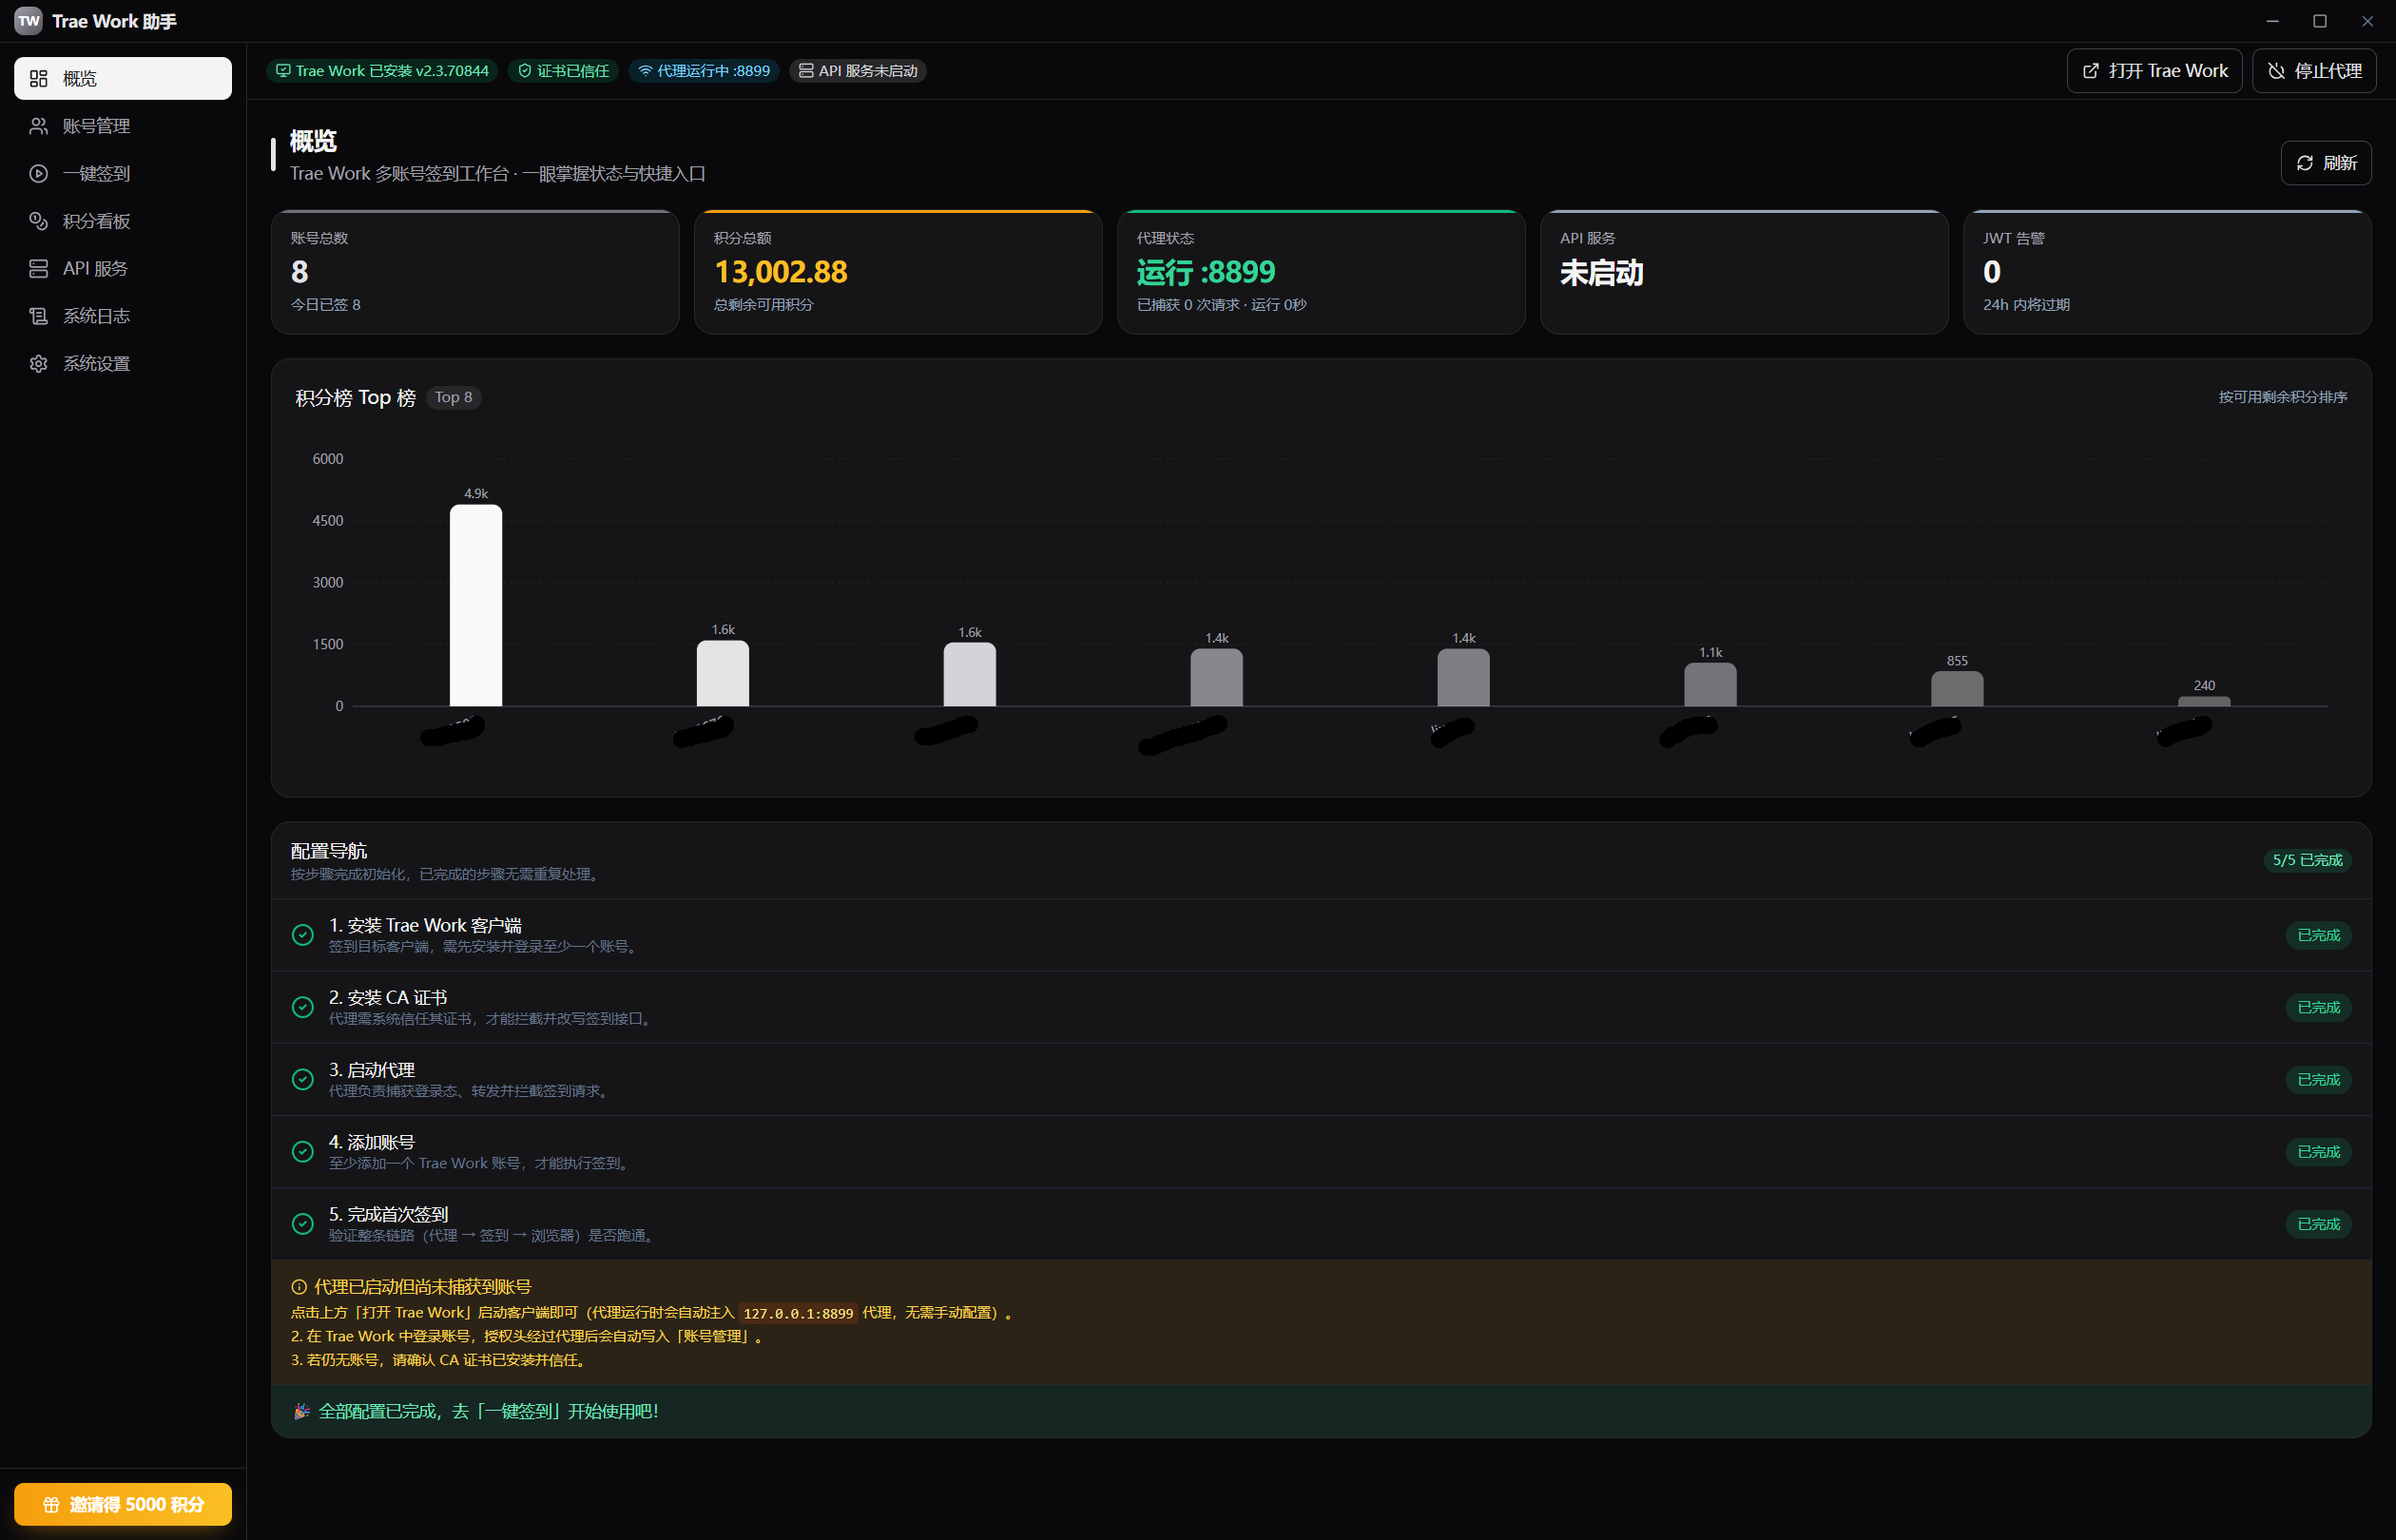
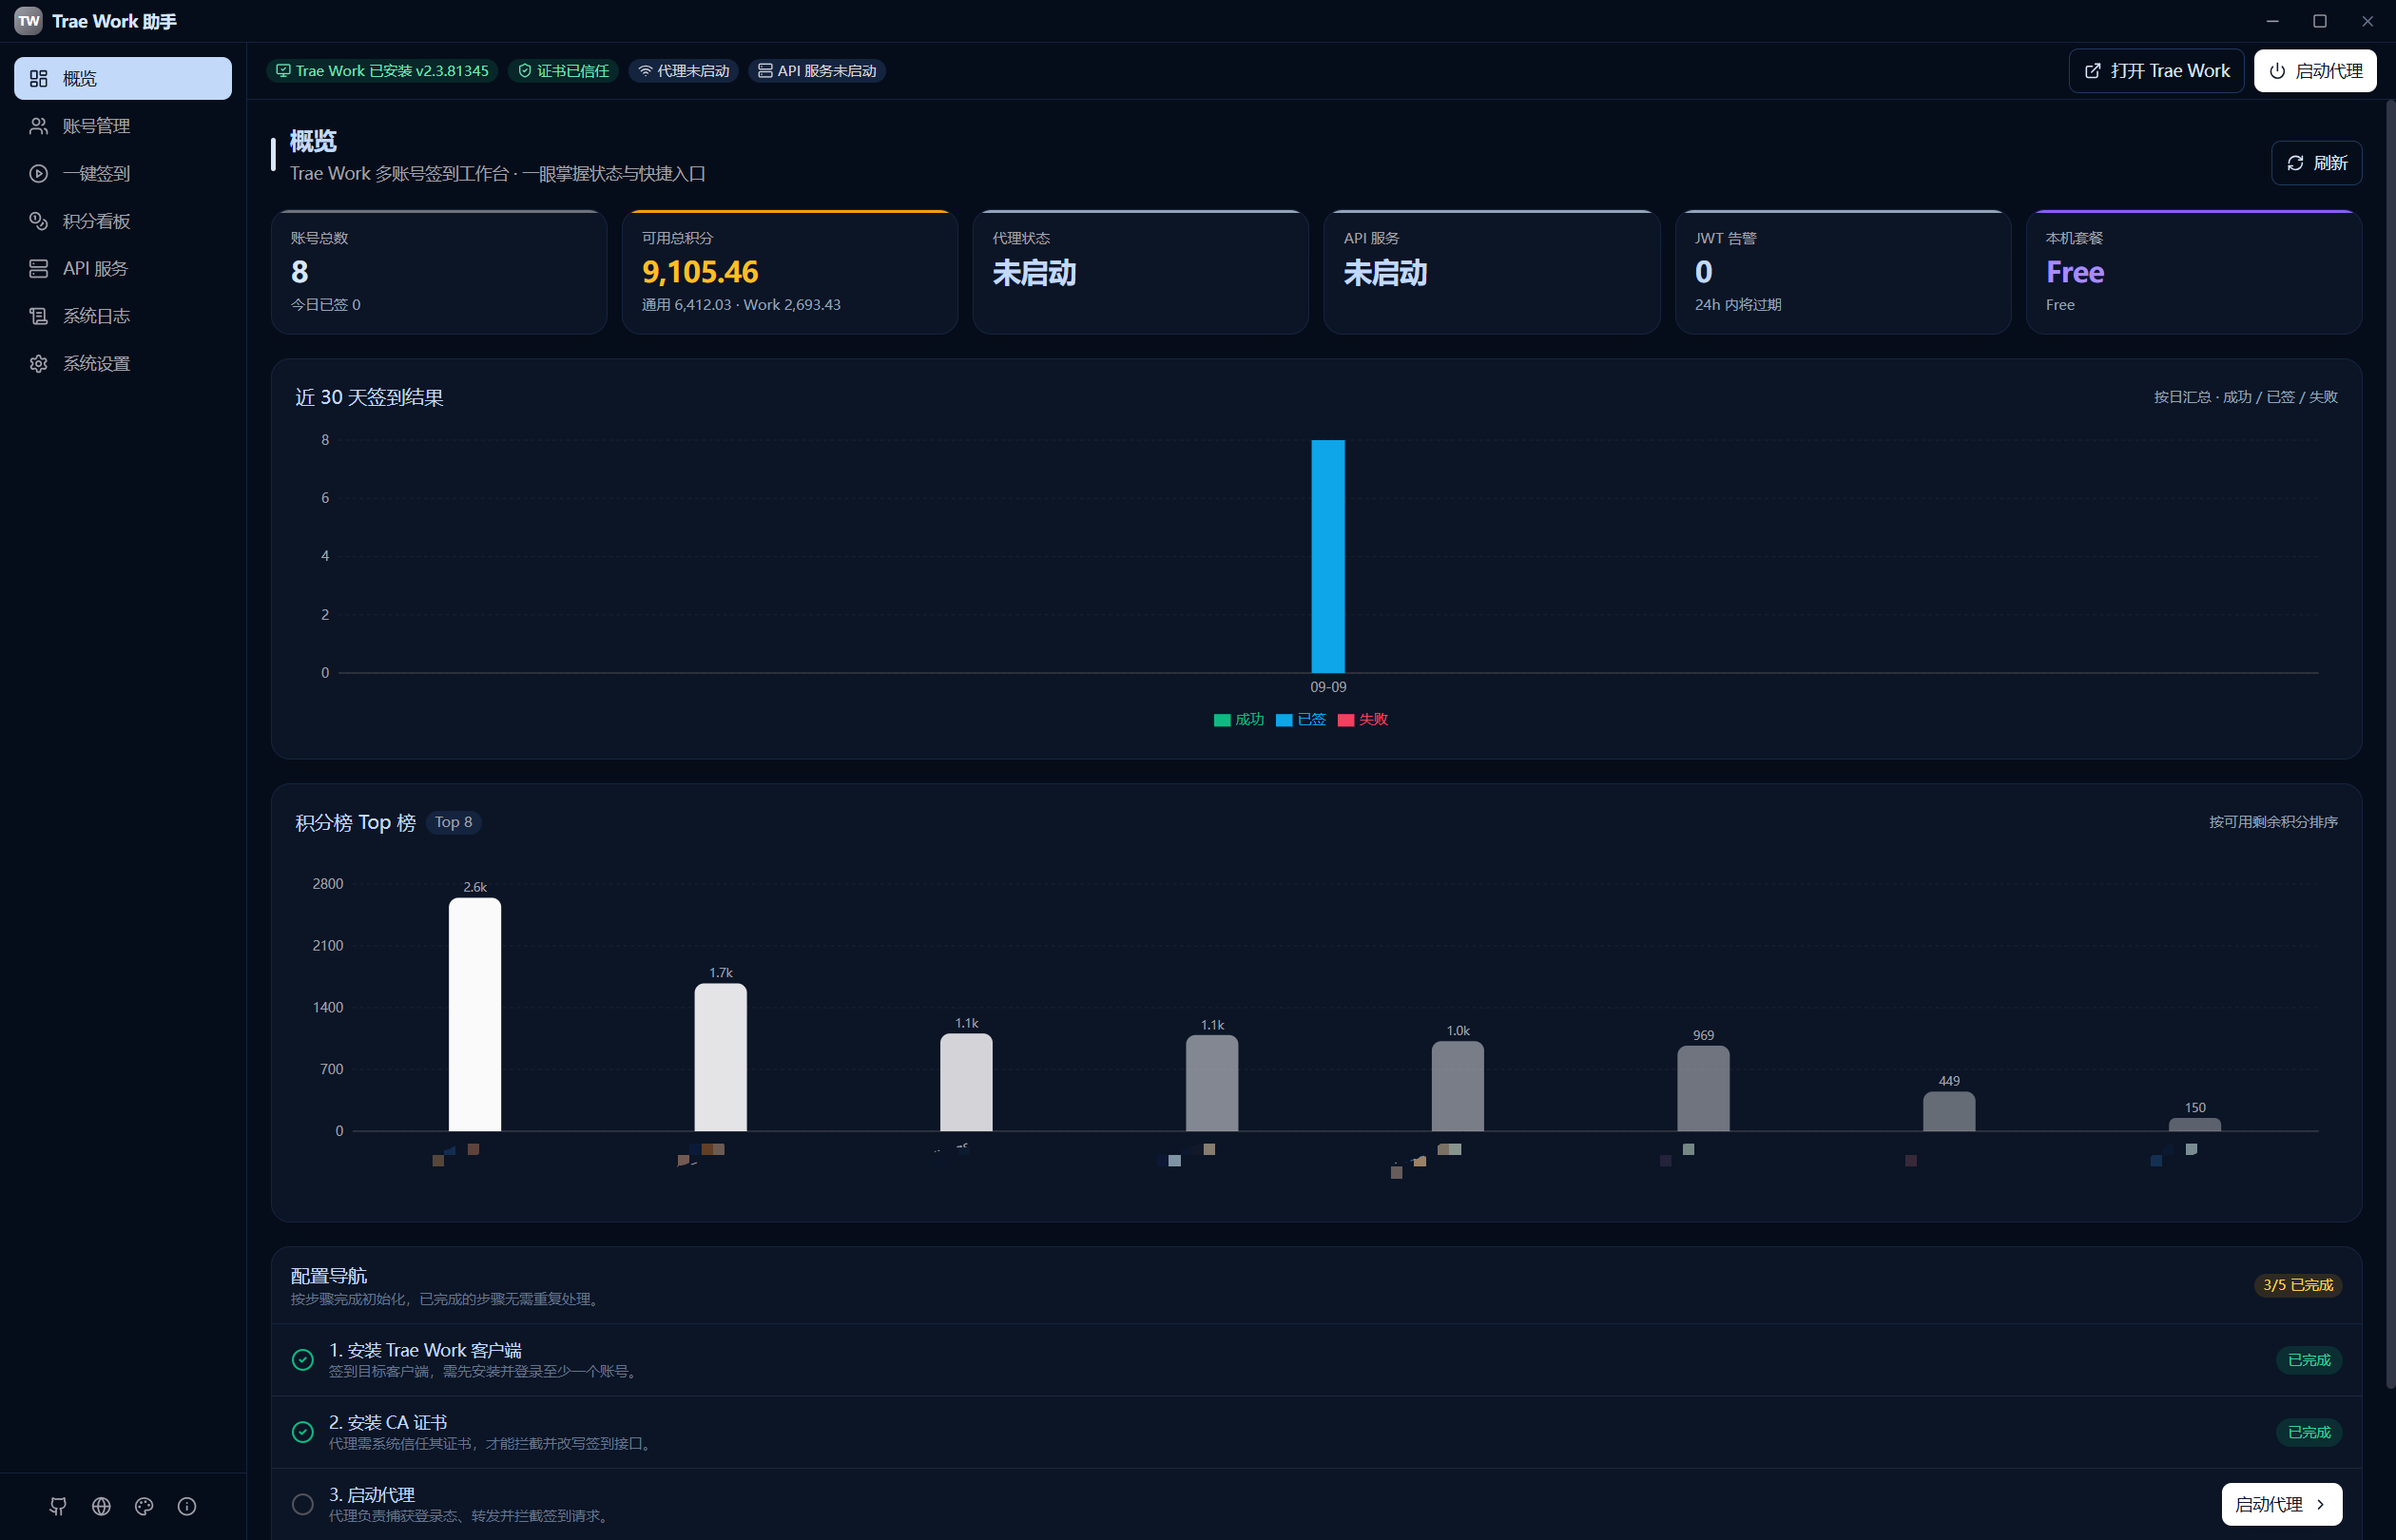
[docs] 恢复 Work 积分资源池方案设计文档（多活会话编排方案 A），并压缩 main.png 宣传图

diff --git a/docs/work-credit-pool-design.md b/docs/work-credit-pool-design.md
@@ -1,0 +1,143 @@
+# Work 积分资源池：方案设计与落地建议
+
+> 目标：把多个 Trae 账号的 **Work 积分（product_id 209）** 聚成一个对外部调用方**无感**的资源池，
+> 通过调度机制对外提供 **OpenAI 兼容接口**（`POST /v1/chat/completions`）。
+>
+> 原则（本方案严格遵守）：**最小代码、不改现有业务与架构**。现有能力只复用、不修改。
+
+---
+
+## 0. 结论先行（TL;DR）
+
+1. 项目里**已经有一套完整的「透明积分池 + OpenAI 接口」壳**，但它当前只吃 **IDE 积分（208）**——
+   上游是 `EP_LLM_CHAT = /api/agent/v3/llm_utils_chat`，余额来源 `ide_user_ent_usage` 也是 IDE 积分。
+   **Work 积分（209）尚未接入**。
+2. 抓包实证：Work 积分只能由**实时 Trae SOLO 会话**本身发起 `create_agent_task` 来消耗；
+   该请求体由原生层 `ai_agent.dll` 构造、由闭源 `@aha-kit` 加密，**外部无法复刻**（用真实身份复刻仍 4001，已证伪）。
+3. **唯一可行且对外部无感的突破路径 = 多活会话编排**：每个 Work 账号跑一个实时 Trae SOLO 实例，
+   Work Assistant 作为编排层按池选账号 → 驱动对应实例 → 捕获 SSE（现有 MITM 代理）→ `sse.rs` 转 OpenAI。
+4. 这条路径是**增量的**：在现有池/端点/转换之上 **+1 个 `work_transport` 模块 + 一个配置开关**，
+   现有 `routes.rs / pool.rs / sse.rs / server.rs / payload.rs` **全部不动**。
+5. 真正的成本在**运维**（N 个实时会话 + 如何"驱动"它们发起对话），不在代码量。
+
+---
+
+## 1. 现状盘点：已建好的壳（直接复用，不要动）
+
+| 能力 | 位置 | 说明 |
+|---|---|---|
+| 对外 OpenAI 兼容端点 | `src-tauri/src/api_server/server.rs:74` | `POST /v1/chat/completions` |
+| 账号池 + 调度器 | `src-tauri/src/api_server/pool.rs` | `ApiPool`：`pick_excluding` 按剩余积分挑选、跳过零积分、错误冷却 `note_error`、`MAX_ROTATE` 轮换 |
+| body 改写 | `src-tauri/src/api_server/payload.rs` | `prepare_llm_chat_body` |
+| SSE→OpenAI 转换 | `src-tauri/src/api_server/sse.rs` | 已有 `stream_convert` / `aggregate` |
+| 余额刷新 | `src-tauri/src/commands/accounts.rs` | `refresh_remaining_credits`，调用 `api.trae.cn/trae/api/v2/pay/ide_user_ent_usage` |
+| 上游常量 | `src-tauri/src/api_server/mod.rs` | `AGENT_HOST`、`EP_LLM_CHAT`、`FUNCTION="solo_work_lite"` |
+
+**缺口（本章重点）**：上述壳的上游是 `EP_LLM_CHAT`（IDE 积分 208），余额也是 IDE 积分。
+Work 积分（209）从「上游端点、请求体构造、余额来源」三个层面都**没有接入**。
+
+---
+
+## 2. 关键约束：为什么 Work 积分外部无法复刻
+
+来自本会话抓包与复刻实验的实证：
+
+- **实证成功**：真实 Trae SOLO 客户端发起 `create_agent_task`，返回 `200 OK` + `text/event-stream`
+  + `event:task_created` + `event:model_config`，确认**成功消耗 Work 积分**。
+- **请求体特征**：
+  - 由原生层 `ai_agent.dll` 构造，是 ~123KB 的**富上下文** body（含 workspace / agent 上下文）；
+  - 由闭源 `@aha-kit` NAPI 加密（仅暴露 `init` / `rawFetch`，无独立 `encrypt` 函数）；
+  - body 加密后无法直读，因此外部无法"照抄"结构。
+- **复刻实验（已证伪外部复刻）**：用**真实身份**（真实 JWT `data.id` + 真实 `device_id` + 真实 `machine_id` + 真实 `project_id`）
+  在 Node 端复刻 `create_agent_task` 请求 → 仍返回 `4001 failed to get summary template data`。
+- **结论**：`create_agent_task` 必须由**实时 Trae SOLO 会话**自身发起，外部无法合成该调用。
+  任何"独立构造明文/密文 body 直接打 API"的思路都走不通（也伴随闭源组件逆向的合规风险）。
+
+> 顺带说明：`@aha-kit` 的 `fetch` 在 `x-bridge-transport:aha` 下确实会加密 body，但它走的是 **TTNet 隧道**
+> （MITM 只能看到 `CONNECT` 中继，看不到内部请求）；而真实客户端是**直连 HTTPS POST + aha 加密体**。
+> 两条路径不同，进一步说明不能绕开真实客户端。
+
+---
+
+## 3. 可行方案对比
+
+| 方案 | 做法 | 代码改动 | 复用现有壳 | 优点 | 风险 / 缺点 | 契合度 |
+|---|---|---|---|---|---|---|
+| **A. 多活会话编排 + WorkTransport（推荐）** | 每账号一个实时 Trae SOLO 实例；新增模块按池选账号→驱动该实例发起 `create_agent_task`→捕获 SSE→`sse.rs` 转 OpenAI | 小（1 个新模块 + 配置开关 + 余额来源） | 是（端点/池/转换全复用） | 唯一能真消耗 Work 积分且对外部无感；增量、不动架构 | 运维重（N 实例 + 驱动方式待确认） | ★★★★★ |
+| **B. 复用 IDE 池当过渡** | 把现有 IDE 积分池直接当"资源池"对外，零改动先跑通端到端形态 | 零 | 是 | 立刻可用，验证"透明池 + OpenAI 接口 + 外部无感"形态 | 消耗的是 IDE 积分不是 Work 积分，**不满足业务诉求** | ★★☆（仅过渡） |
+| **C. 逆向原生层复刻 `create_agent_task`** | 完全复刻 body 构造 + 加密 | 极大 | 部分 | 理论最"干净" | 已证伪（4001）；闭源逆向 + ToS 风险；长周期 | ✗ 放弃 |
+| **D. 纯 MITM 中继（只观察）** | Work Assistant 作系统代理只捕获 Trae SOLO 自己发的请求 | 中 | 部分 | 调试/分析价值高 | **只能观察、不能发起**，无法独立服务外部用户 | ✗ 不作主方案 |
+
+---
+
+## 4. 推荐落地路径（分阶段，最小代码）
+
+### Phase 0 — 先跑通端到端形态（方案 B，零改动，立即可用）
+- 直接把现有 IDE 积分池对外作为 OpenAI 接口。
+- 目的：验证"透明池 + 调度 + 外部无感"这一形态，沉淀监控/轮换/冷却机制。
+- 明确标注：此阶段消耗 IDE 积分，仅为形态验证。
+
+### Phase 1 — 突破 Work 积分（方案 A，增量，不动现有架构）
+在 Phase 0 的壳之上，**只新增**，不修改：
+
+1. **新增模块 `src-tauri/src/api_server/work_transport.rs`**
+   - 持有每个 Work 账号的「会话句柄」（如何驱动该账号的 Trae SOLO 实例，见 §5 未决项）。
+   - 提供 `trigger_create_agent_task(account, prompt) -> SSE reader`：让对应实时会话发起 `create_agent_task`，
+     返回原生 SSE，交给现有 `sse.rs` 转 OpenAI。
+   - 复用 `pool.rs` 的挑选/冷却逻辑（账号池本身通用，与"积分类型"解耦）。
+
+2. **新增 Work 余额来源（additive 命令）**
+   - `commands/accounts.rs` 增加 `fetch_remaining_work_credits`（或独立小模块）。
+   - 调查并接入 **Work 积分余额 API**（与 IDE 的 `ide_user_ent_usage` 不同，需单独确认端点/字段）。
+   - 写回 `remaining_work_credits.json`（类比现有 `remaining_credits.json`）。
+
+3. **`routes.rs` 加 ~10 行开关（行为默认不变）**
+   ```rust
+   // 配置项 credit_type: "ide" | "work"，默认 "ide"
+   if state.credit_type == "work" {
+       work_transport::trigger(...)   // 替代 make_upstream_request
+   } else {
+       make_upstream_request(...)      // 现有 IDE 路径，完全不动
+   }
+   ```
+   默认 `ide` → 现有行为一字未改；切到 `work` 才走新通道。
+
+4. **`mod.rs` 仅新增常量（不删不改现有）**
+   - `pub const EP_WORK_TASK: &str = "/api/agent/v3/create_agent_task";`（参考/备用，真发起在客户端侧）。
+
+5. **以下文件一律不动**：`server.rs`、`pool.rs`、`sse.rs`、`payload.rs`。
+
+### 运维模型（真正的投入点，不是代码）
+- 每个参与 Work 池的账号，跑一个**独立 Trae SOLO 实例**（隔离 `--user-data-dir`，登录该账号）。
+- Work Assistant 作为**编排层**：池选中账号 → 驱动对应实例 → 其原生层执行 `create_agent_task`（消耗该账号 Work 积分）
+  → 响应经现有 MITM 代理捕获 → `sse.rs` 转 OpenAI → 对外统一流式返回。
+- 外部调用方始终只看到 `POST /v1/chat/completions` 一个端点，**对"积分来自哪个账号 / 哪家 Work 池"完全无感**。
+
+---
+
+## 5. 关键未决 & 下一步验证（决定 Phase 1 能否轻量落地）
+
+1. **如何"驱动"实时 Trae SOLO 会话发起 `create_agent_task`？**（方案 A 的核心）
+   - 优先：确认 Trae SOLO 是否暴露**本地命令 / IPC / 扩展 API**（最稳，代码最少）。
+   - 退化：headless / UI 自动化（脆弱，仅兜底）。
+2. **Work 积分余额 API 来源**：与 IDE 不同，需新查（端点/字段/鉴权）。
+3. **单实例多账号是否可行**：若 `create_agent_task` 强绑定登录会话，则必须 N 实例；
+   若能进程内切换账号，则可降为单实例多会话（大幅降低运维成本）。需逆向/实验确认。
+
+---
+
+## 6. 风险与合规
+
+- **ToS / 合规**：驱动真实客户端批量消耗 Work 积分可能触及 Trae 使用条款，上线前需评估。
+- **运维稳定性**：N 个实时会话的资源占用、登录态维护、崩溃恢复。
+  - 好消息：`pool.rs` 已有 `SessionDead` 冷却机制，会话挂掉可自动 `disabled`，天然适配。
+- **驱动方式脆弱性**：若只能 UI 自动化，会话界面变化会导致失败，需监控+告警。
+
+---
+
+## 7. 一句话总结
+
+> 现有"透明池 + OpenAI 接口"是 **IDE 积分专用**；Work 积分需增量突破。
+> 唯一可行且对外部无感的路径是 **多活会话编排（方案 A）**：在现有池/端点/转换之上 **+1 个 `work_transport` 模块 + 一个配置开关**，
+> **不动任何现有架构**。真正的投入在运维（实时会话），不在代码量。
+> 建议 **Phase 0 先用 IDE 池跑通形态，Phase 1 再上 WorkTransport 突破 Work 积分**。
